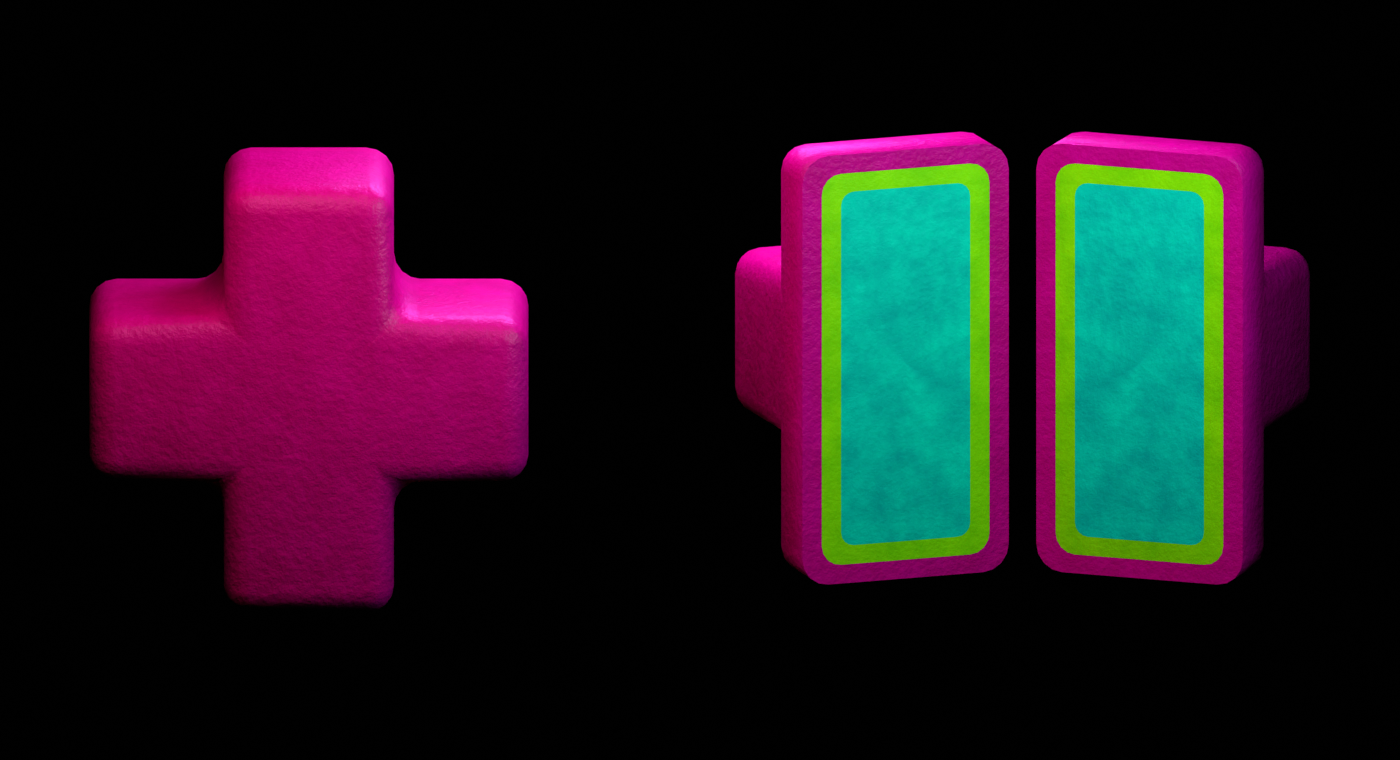
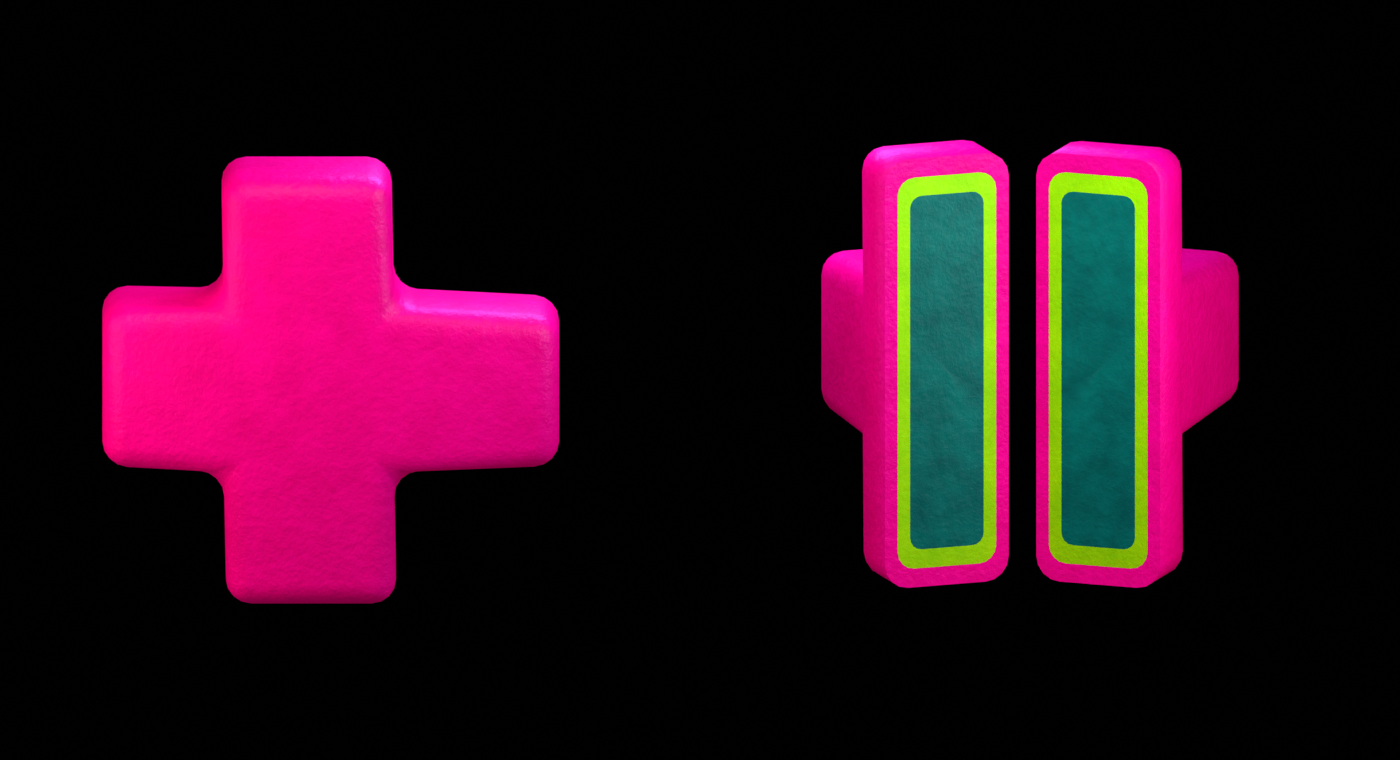
Preserve distinctive side contours in cut fruit study

diff --git a/studies/cut-plus/build_cut_plus.py b/studies/cut-plus/build_cut_plus.py
@@ -17,7 +17,7 @@ bpy.ops.object.select_all(action="SELECT")
 bpy.ops.object.delete(use_global=False)
 
 
-def material(name, color, light_color, noise_scale, bump_strength, roughness=0.4):
+def material(name, color, light_color, noise_scale, bump_strength, roughness=0.4, emission=0.0):
     mat = bpy.data.materials.new(name)
     mat.diffuse_color = (*color, 1)
     mat.use_nodes = True
@@ -27,6 +27,8 @@ def material(name, color, light_color, noise_scale, bump_strength, roughness=0.4
     shader.inputs["Base Color"].default_value = (*color, 1)
     shader.inputs["Roughness"].default_value = roughness
     shader.inputs["Specular IOR Level"].default_value = 0.25
+    shader.inputs["Emission Color"].default_value = (*color, 1)
+    shader.inputs["Emission Strength"].default_value = emission
     coordinates = nodes.new("ShaderNodeTexCoord")
     noise = nodes.new("ShaderNodeTexNoise")
     noise.inputs["Scale"].default_value = noise_scale
@@ -53,17 +55,21 @@ def material(name, color, light_color, noise_scale, bump_strength, roughness=0.4
     return mat
 
 
-skin = material("Magenta fantasy-fruit skin", (0.62, 0.0, 0.18), (0.82, 0.0, 0.28), 16, 0.28)
-rind = material("Lime rind", (0.22, 0.56, 0.0), (0.42, 0.76, 0.0), 22, 0.15, 0.48)
-flesh = material("Turquoise flesh", (0.0, 0.38, 0.35), (0.0, 0.72, 0.50), 12, 0.18, 0.42)
+skin = material("Magenta fantasy-fruit skin", (0.62, 0.0, 0.18), (0.82, 0.0, 0.28), 16, 0.28, emission=0.35)
+rind = material("Lime rind", (0.28, 0.70, 0.0), (0.46, 0.90, 0.0), 22, 0.15, 0.48)
+flesh = material("Turquoise flesh", (0.0, 0.12, 0.10), (0.0, 0.24, 0.18), 12, 0.18, 0.42)
 
 
 def plus_mesh(name, half_arm, reach, depth, bevel):
     """A closed, beveled plus with a planar back, in X/Z, with depth along Y."""
     a, b = half_arm, reach
-    outline = [(-a, -b), (a, -b), (a, -a), (b, -a),
-               (b, a), (a, a), (a, b), (-a, b),
-               (-a, a), (-b, a), (-b, -a), (-a, -a)]
+    # The original fruit has two subtly different organic side arms. Cutting it
+    # once therefore gives two distinct, compatible side profiles.
+    outline = [(-a * 0.97, -b), (a * 1.03, -b), (a, -a),
+               (b * 1.14, -a * 0.92), (b * 1.14, a * 0.90),
+               (a, a), (a * 0.97, b), (-a * 1.03, b),
+               (-a, a), (-b * 0.94, a * 1.03),
+               (-b * 0.94, -a * 0.92), (-a, -a)]
     count = len(outline)
     verts = [(x, -depth / 2, z) for x, z in outline]
     verts += [(x, depth / 2, z) for x, z in outline]
@@ -123,9 +129,10 @@ def mesh_stats(obj):
     return stats
 
 
-outer = plus_mesh("Whole fruit solid", 0.62, 1.60, 1.60, 0.20)
-middle = plus_mesh("Inside of skin", 0.49, 1.46, 1.30, 0.15)
-core = plus_mesh("Inside of rind", 0.36, 1.32, 1.00, 0.10)
+outer_depth = 0.96
+outer = plus_mesh("Whole fruit solid", 0.62, 1.60, outer_depth, 0.18)
+middle = plus_mesh("Inside of skin", 0.49, 1.46, outer_depth * 0.94 / 1.18, 0.13)
+core = plus_mesh("Inside of rind", 0.36, 1.32, outer_depth * 0.70 / 1.18, 0.09)
 whole_stats = mesh_stats(outer)
 assert whole_stats["nonmanifold_edges"] == 0
 
@@ -167,7 +174,7 @@ left_cutter = halfspace("Left half-space x <= 0", -5, 0)
 right_cutter = halfspace("Right half-space x >= 0", 0, 5)
 after = {"left": {}, "right": {}}
 cut_halves = []
-hinge_y = 0.8  # back edge of the uncut fruit
+hinge_y = outer_depth / 2  # back edge of the uncut fruit
 gap = 0.10
 for side, cutter, angle in (("left", left_cutter, -70), ("right", right_cutter, 70)):
     pivot = bpy.data.objects.new(side.title() + " cut rotation", None)
@@ -254,6 +261,8 @@ def area_light(name, loc, color, energy, size):
 area_light("Rose key", (-3, -5, 7), (1, 0.55, 0.75), 520, 6)
 area_light("Cyan fill", (4, -4, 4), (0.45, 1, 0.95), 460, 5)
 area_light("Violet rim", (0, 3, 5), (0.62, 0.25, 1), 600, 4)
+area_light("Left side fill", (-7, -3, 1), (1, 0.30, 0.62), 280, 5)
+area_light("Right side fill", (7, -3, 1), (1, 0.30, 0.62), 280, 5)
 camera_data = bpy.data.cameras.new("Camera")
 camera = bpy.data.objects.new("Camera", camera_data)
 bpy.context.collection.objects.link(camera)
@@ -268,6 +277,7 @@ bpy.context.view_layer.update()
 to_camera = camera.matrix_world.to_quaternion() @ Vector((0, 0, 1))
 face_dots = {}
 projected = []
+side_extensions = {}
 for obj in [whole_display, *cut_halves]:
     if obj in cut_halves:
         dots = []
@@ -280,6 +290,16 @@ for obj in [whole_display, *cut_halves]:
     for vertex in obj.data.vertices:
         projected.append(world_to_camera_view(scene, camera, obj.matrix_world @ vertex.co))
 
+    if obj.name in ("Left skin", "Right skin"):
+        cap_x = [world_to_camera_view(scene, camera, obj.matrix_world @ v.co).x
+                 for v in obj.data.vertices if abs(v.co.x) < 1e-6]
+        side_x = [world_to_camera_view(scene, camera, obj.matrix_world @ v.co).x
+                  for v in obj.data.vertices if abs(v.co.x) > 0.9]
+        assert cap_x and side_x, obj.name
+        extension = min(cap_x) - min(side_x) if obj.name.startswith("Left") else max(side_x) - max(cap_x)
+        assert extension > 0.02, (obj.name, extension)
+        side_extensions[obj.name] = extension
+
 frame = {
     "min_x": min(v.x for v in projected), "max_x": max(v.x for v in projected),
     "min_y": min(v.y for v in projected), "max_y": max(v.y for v in projected),
@@ -289,6 +309,7 @@ assert frame["min_y"] > 0.02 and frame["max_y"] < 0.98, frame
 assert min(v.z for v in projected) > 0, "A visible vertex is behind the camera"
 report["minimum_cut_face_dot_toward_camera"] = face_dots
 report["projected_frame_bounds"] = frame
+report["projected_outer_side_extension_fraction_of_frame"] = side_extensions
 (HERE / "geometry-report.json").write_text(json.dumps(report, indent=2) + "\n", encoding="utf-8")
 
 bpy.context.preferences.filepaths.save_version = 0

diff --git a/AGENTS.md b/AGENTS.md
@@ -2,4 +2,4 @@
 
 For material changes to fruit icon concepts, use the project color_observer, contrast_observer, botanical_observer, fantasy_fruit_observer, and outline_observer agents when subagents are available. Have them check the actual revised result and resolve substantial conflicts before presenting it. Use cut_open_observer for clicked-state cross-sections, coordinating with botanical and outline reviewers. Use mechanical_observer for proposed physical button construction or plastic relief. These are delegated reviews during work, not always-running background monitors.
 
-The user wants every fruit to be a vivid original alien fantasy fruit, with diverse and highly textured skins. Give each distinct control a different exterior color and silhouette; spread hues evenly across the complete set. Some skins should include subtle gradients or blushes, with the middle options in the linked surface study preferred. A few subtle, healthy-looking sun freckles are welcome on selected fruits, but avoid seed-like pits, bruising, and spoiled-looking spots. Color, contrast and botanical observers should coordinate. Silhouettes should be recognizable yet organically varied, rather than rigid cookie-cutter shapes; outline_observer and botanical_observer should coordinate. Contrasting parts and cut interiors can use varied hue relationships: complementary, neighboring, or other combinations; verify their lightness contrast. The open-folder arrow extends beyond the folder outline. Preserve a flat-backed button concept with a dimensional top, pure black backgrounds, strong contrast, no stems or seeds, and highlights that remain richly colored. Default icons show fruit exterior. Clicking immediately shows two vertically cut halves turned outward roughly 70 degrees, exposing contrasting cross-sections and rind; their outline changes and there is no cut animation. Unavailable controls are an explicit color exception: nearly colorless with a large white X crossing and extending beyond the silhouette; the third example in the linked study was preferred. Loading is indicated separately. Controls are icon-only with a descriptive native hover label; the broad complementary-color hover glow may spill over neighboring text. Plastic studies remain archived. See DESIGN.md for the visual references and remaining open questions.
+The user wants every fruit to be a vivid original alien fantasy fruit, with diverse and highly textured skins. Give each distinct control a different exterior color and silhouette; spread hues evenly across the complete set. Some skins should include subtle gradients or blushes, with the middle options in the linked surface study preferred. A few subtle, healthy-looking sun freckles are welcome on selected fruits, but avoid seed-like pits, bruising, and spoiled-looking spots. Color, contrast and botanical observers should coordinate. Silhouettes should be recognizable yet organically varied, rather than rigid cookie-cutter shapes; outline_observer and botanical_observer should coordinate. Contrasting parts and cut interiors can use varied hue relationships: complementary, neighboring, or other combinations; verify their lightness contrast. The open-folder arrow extends beyond the folder outline. Preserve a flat-backed button concept with a dimensional top, pure black backgrounds, strong contrast, no stems or seeds, and highlights that remain richly colored. Default icons show fruit exterior. Clicking immediately shows two vertically cut halves turned outward roughly 70 degrees, exposing contrasting cross-sections and rind; their outline changes and there is no cut animation. The original exterior's side contours remain visible, and each action has its own distinct cut-state silhouette. Unavailable controls are an explicit color exception: nearly colorless with a large white X crossing and extending beyond the silhouette; the third example in the linked study was preferred. Loading is indicated separately. Controls are icon-only with a descriptive native hover label; the broad complementary-color hover glow may spill over neighboring text. Plastic studies remain archived. See DESIGN.md for the visual references and remaining open questions.

diff --git a/studies/cut-plus/README.md b/studies/cut-plus/README.md
@@ -2,11 +2,11 @@
 
 The [render](./cut-plus-geometry.png) compares one intact plus-shaped fantasy fruit with two pieces cut from the same shape. The [script](./build_cut_plus.py) recreates the Blender scene using its Python API. The generated `.blend` stays local because Blender files can contain absolute local paths. This is a static geometry study, not a finished icon or a small-size legibility and contrast test. Its interior is deliberately simple and still needs a more convincing fruit structure and texture.
 
-The model is one closed, flat-backed plus with modeled skin, rind, and flesh. It is cut vertically through the middle, and the two real halves are turned outward 70 degrees around the back edge of the cut, then spaced apart slightly. A straight cut through this particular solid makes long, roughly rectangular cross-sections; it does not magically create half-plus-shaped cross-sections. The body is relatively thick to make the cut faces visible.
+The model is one closed, flat-backed plus with modeled skin, rind, and flesh. It is cut vertically through the middle, and the two real halves are turned outward 70 degrees around the back edge of the cut, then spaced apart slightly. A straight cut through this particular solid makes long, roughly rectangular cross-sections; it does not magically create half-plus-shaped cross-sections. The original fruit has subtly different organic arms on either side. Its actual exterior remains visible beyond the cut faces, giving the two pieces different side profiles.
 
-The [geometry report](./geometry-report.json) records manifold and volume checks, the angles, the direction of the cut faces relative to the camera, and framing checks. These checks support the geometry of this model; they do not establish accessibility or prove the visual quality of future artwork.
+The [geometry report](./geometry-report.json) records manifold and volume checks, the angles, the direction of the cut faces relative to the camera, framing, and projected side extensions. The side-extension calculation does not account for occlusion or whether a person can recognize the shape. These checks support the geometry of this model; they do not establish accessibility or prove the visual quality of future artwork.
 
-Reviewers found that the opened halves currently resemble two panels and may be hard to recognize as a plus at icon size. They recommend developing gently irregular rind boundaries and matching seedless fibers inside the actual cut surfaces. Representative rendered-pixel spot checks found roughly 1.22:1 at one rind/flesh boundary and 1.74:1 at one magenta edge against black, both below 3:1. These samples are not an exhaustive contrast audit; the future icon needs brighter silhouette edges, stronger part separation, and tests at actual sizes and states.
+An earlier version's opened halves resembled two panels and were potentially hard to recognize as a plus at icon size. This revision makes the body shallower and shows more of the real side profiles, but small-size recognition still needs testing. Reviewers recommend developing gently irregular rind boundaries and matching seedless fibers inside the actual cut surfaces. Spot checks of the revised color preview found improved rind/flesh contrast but some magenta edges and skin/rind boundaries still below 3:1. The finished design needs rendered contrast tests at actual sizes and states.
 
 To regenerate the study with Blender 4.5 LTS, run from the repository root:
 

diff --git a/DESIGN.md b/DESIGN.md
@@ -7,7 +7,7 @@
 - **Clean silhouettes.** Rind details and watermelon stripes should stay inside the edge and flow with curved shapes. Internal detail should not make a control ambiguous.
 - **Color and light.** Use a pure black background and saturated candy colors, spreading distinct exterior hues evenly across the icon set. Contrasting parts and fruit interiors may use complementary, neighboring, or other varied hues, with sufficient lightness contrast; do not rely on one secondary color. Keep highlights restrained and colored rather than washed out. Authored active-state chromatic colors use 100% HSL saturation; unavailable controls are an explicit exception. Generated concept art, interpolation, and antialiasing cannot guarantee saturation for every pixel.
 - **Natural variation.** Some skins can have integrated color blushes, splotches or gradients and a few sparse sun freckles, while others can be uniform. Keep variations inside the clean silhouette and away from important part boundaries; they must not resemble seeds, bruises, or spoilage or diminish contrast.
-- **Interaction studies.** A click immediately reveals a vertical cut: two halves turn outward roughly 70 degrees, showing contrasting, seedless interior cross-sections and rind, with a changed outline. The cut is a static state, not an animation; its duration and treatment of persistent selection remain open. Hover can show a large complementary-colored glow that spills over nearby text. Controls are icon-only with a descriptive native hover label. Unavailable controls use a nearly colorless fruit and a white X spanning and extending beyond the silhouette; loading is separate.
+- **Interaction studies.** A click immediately reveals a vertical cut: two halves turn outward roughly 70 degrees, showing contrasting, seedless interior cross-sections and rind, with a changed outline. The original exterior remains visible along the sides of the halves and helps give each action its own distinguishable opened silhouette. Organic differences between the two halves must still come from one fruit. The cut is a static state, not an animation; its duration and treatment of persistent selection remain open. Hover can show a large complementary-colored glow that spills over nearby text. Controls are icon-only with a descriptive native hover label. Unavailable controls use a nearly colorless fruit and a white X spanning and extending beyond the silhouette; loading is separate.
 - **Readable controls.** Test each finished icon in the actual interface at 12–16 px and 24 px and in its actual states. Meaningful UI graphics generally need at least 3:1 contrast with adjacent colors; normal text generally needs 4.5:1. Check the least-contrasting meaningful boundary across gradients after compositing, not just the endpoints or average. See the W3C's [non-text contrast guidance](https://www.w3.org/WAI/WCAG22/Understanding/non-text-contrast.html) and [text contrast guidance](https://www.w3.org/WAI/WCAG22/Understanding/contrast-minimum.html). A palette check alone cannot establish conformance.
 
 The raster concept sheets illustrate the direction; they are not final, pixel-perfect specifications or production icon files. The current study still needs the violet refresh texture aligned with the arrow's curve and more separation between the netted blue and purple skin treatments. Individual artwork, rendered contrast, and small-size legibility still need to be built and validated.
